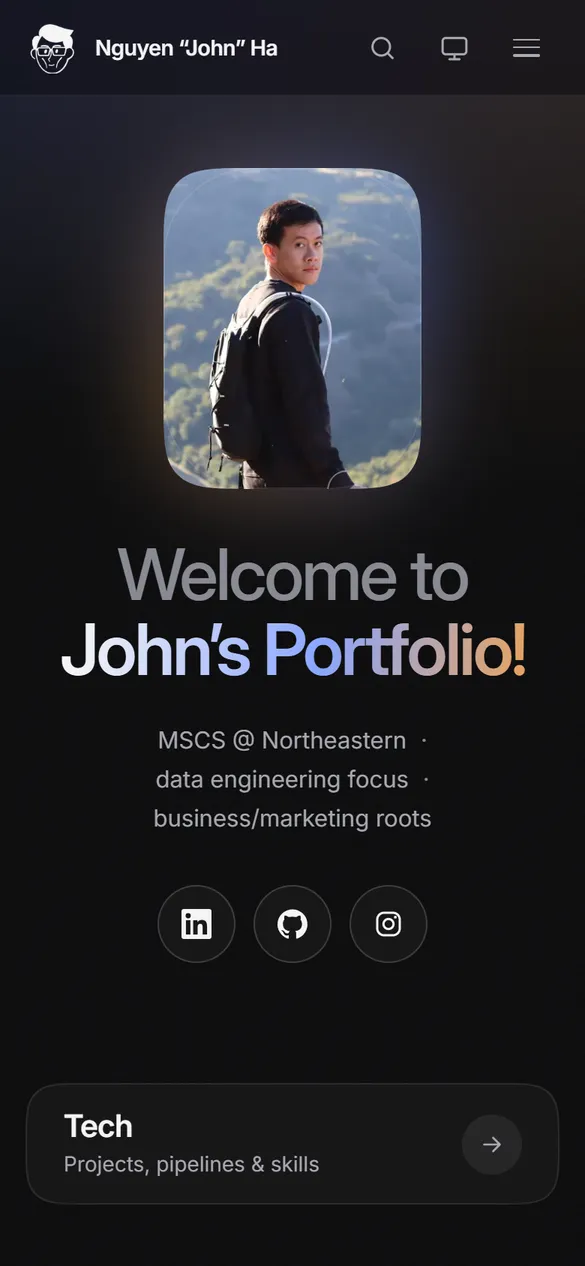
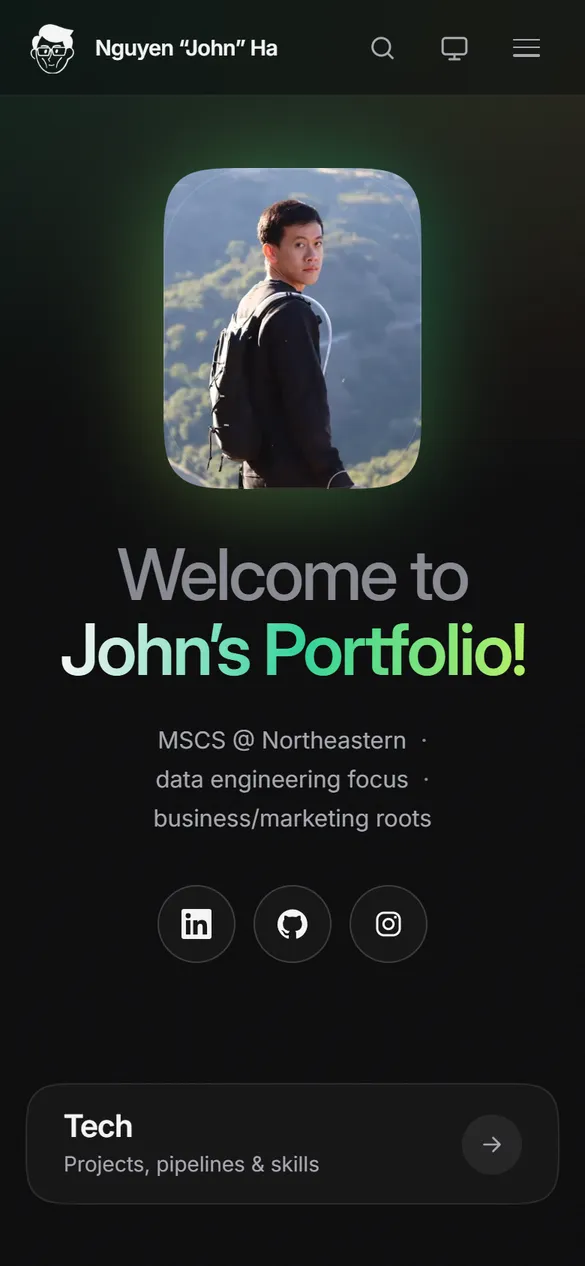
Switch accent from blue to emerald green and unify stack arrows
External links (Music, Photography) now use the same arrow glyph as the
other rows, rotated 45 degrees; hover nudges the arrow instead of rotating
it. Regenerated the Open Graph image and README screenshots.

diff --git a/site/assets/css/site.css b/site/assets/css/site.css
@@ -51,14 +51,15 @@
   --text: #f4f4f5;
   --text-muted: #a8a8b1;
   --text-faint: #8a8a93;
-  --accent: #8aa6ff;
-  --accent-strong: #5b7cff;
+  --accent: #34d399;
+  --accent-strong: #10b981;
+  --accent-2: #bef264;
   --accent-ink: #0a0a0b;
   --crema: #e9a35b;
   --success: #4ade80;
   --glass: rgb(14 14 17 / 0.62);
   --glass-border: rgb(255 255 255 / 0.08);
-  --glow-a: rgb(91 124 255 / 0.20);
+  --glow-a: rgb(16 185 129 / 0.16);
   --glow-b: rgb(233 163 91 / 0.13);
   --ring-photo: rgb(255 255 255 / 0.10);
   --shadow-sm: 0 1px 2px rgb(0 0 0 / 0.4);
@@ -131,14 +132,15 @@
   --text: #111113;
   --text-muted: #4f4f57;
   --text-faint: #66666e;
-  --accent: #2f5bea;
-  --accent-strong: #2149d1;
+  --accent: #047857;
+  --accent-strong: #059669;
+  --accent-2: #4d7c0f;
   --accent-ink: #ffffff;
   --crema: #a3561a;
   --success: #15803d;
   --glass: rgb(246 245 243 / 0.72);
   --glass-border: rgb(0 0 0 / 0.07);
-  --glow-a: rgb(91 124 255 / 0.16);
+  --glow-a: rgb(16 185 129 / 0.13);
   --glow-b: rgb(233 163 91 / 0.16);
   --ring-photo: rgb(0 0 0 / 0.08);
   --shadow-sm: 0 1px 2px rgb(0 0 0 / 0.06);
@@ -633,7 +635,7 @@ main { flex: 1; padding-top: var(--nav-h); }
   inset: -10px;
   z-index: -1;
   border-radius: calc(var(--r-xl) + 10px);
-  background: conic-gradient(from var(--angle, 0deg), var(--accent-strong), var(--crema), var(--accent-strong));
+  background: conic-gradient(from var(--angle, 0deg), var(--accent-strong), var(--accent-2), var(--accent-strong));
   filter: blur(26px);
   opacity: 0.32;
   animation: halo 12s linear infinite;
@@ -654,7 +656,7 @@ main { flex: 1; padding-top: var(--nav-h); }
 .hero__title span { display: block; }
 .hero__title .muted { color: var(--text-faint); font-weight: 500; }
 .gradient-text {
-  background: linear-gradient(100deg, var(--text) 10%, var(--accent) 55%, var(--crema) 95%);
+  background: linear-gradient(100deg, var(--text) 8%, var(--accent) 52%, var(--accent-2) 96%);
   -webkit-background-clip: text;
   background-clip: text;
   color: transparent;
@@ -747,11 +749,13 @@ main { flex: 1; padding-top: var(--nav-h); }
   border-radius: 50%;
   background: var(--surface-2);
   color: var(--text-muted);
-  transition: transform var(--dur) var(--ease-spring), background-color var(--dur), color var(--dur);
+  transition: background-color var(--dur), color var(--dur);
 }
-.stack__arrow svg { width: 18px; height: 18px; }
-.stack__btn:hover .stack__arrow { background: var(--text); color: var(--bg); transform: rotate(-45deg); }
-.stack__btn[target="_blank"]:hover .stack__arrow { transform: none; }
+.stack__arrow svg { width: 18px; height: 18px; transition: transform var(--dur) var(--ease-spring); }
+.stack__arrow.is-ext svg { transform: rotate(-45deg); }
+.stack__btn:hover .stack__arrow { background: var(--accent); color: var(--accent-ink); }
+.stack__btn:hover .stack__arrow svg { transform: translateX(3px); }
+.stack__btn:hover .stack__arrow.is-ext svg { transform: rotate(-45deg) translateX(3px); }
 
 /* ==========================================================================
    ABOUT
@@ -1060,6 +1064,8 @@ main { flex: 1; padding-top: var(--nav-h); }
   transition: transform var(--dur-slow) var(--ease-spring);
 }
 .brew-card:hover .brew-card__art svg { transform: translateY(-6px) rotate(-3deg); }
+.brew-card:hover .stack__arrow { background: var(--accent); color: var(--accent-ink); }
+.brew-card:hover .stack__arrow svg { transform: translateX(3px); }
 .brew-card__body {
   display: grid;
   grid-template-columns: 1fr auto;

diff --git a/site/about/index.html b/site/about/index.html
@@ -102,12 +102,12 @@
     <div data-reveal style="--i:1">
       <h2 class="section-title">Certificate</h2>
       <ul class="link-list">
-        <li><a class="link-card sq" href="https://www.coursera.org/account/accomplishments/professional-cert/FBMBYKNCN4NZ" target="_blank" rel="noopener"><span><span class="link-card__meta">Coursera · IBM</span><br><span class="link-card__title">IBM AI Engineering Professional Certificate</span><span class="visually-hidden"> (opens in a new tab)</span></span><svg viewBox="0 0 24 24" fill="none" stroke="currentColor" stroke-width="1.8" stroke-linecap="round" stroke-linejoin="round" aria-hidden="true"><path d="M7 17 17 7M8 7h9v9"/></svg></a></li>
-        <li><a class="link-card sq" href="https://credentials.edx.org/credentials/36993d02d5b44feaaf65469ed0a9534f/" target="_blank" rel="noopener"><span><span class="link-card__meta">edX · HarvardX</span><br><span class="link-card__title">CS50: Computer Science for Python Programming</span><span class="visually-hidden"> (opens in a new tab)</span></span><svg viewBox="0 0 24 24" fill="none" stroke="currentColor" stroke-width="1.8" stroke-linecap="round" stroke-linejoin="round" aria-hidden="true"><path d="M7 17 17 7M8 7h9v9"/></svg></a></li>
+        <li><a class="link-card sq" href="https://www.coursera.org/account/accomplishments/professional-cert/FBMBYKNCN4NZ" target="_blank" rel="noopener"><span><span class="link-card__meta">Coursera · IBM</span><br><span class="link-card__title">IBM AI Engineering Professional Certificate</span><span class="visually-hidden"> (opens in a new tab)</span></span><svg viewBox="0 0 24 24" fill="none" stroke="currentColor" stroke-width="1.8" stroke-linecap="round" stroke-linejoin="round" aria-hidden="true"><path d="M6.5 17.5 17.5 6.5M8.5 6.5h9v9"/></svg></a></li>
+        <li><a class="link-card sq" href="https://credentials.edx.org/credentials/36993d02d5b44feaaf65469ed0a9534f/" target="_blank" rel="noopener"><span><span class="link-card__meta">edX · HarvardX</span><br><span class="link-card__title">CS50: Computer Science for Python Programming</span><span class="visually-hidden"> (opens in a new tab)</span></span><svg viewBox="0 0 24 24" fill="none" stroke="currentColor" stroke-width="1.8" stroke-linecap="round" stroke-linejoin="round" aria-hidden="true"><path d="M6.5 17.5 17.5 6.5M8.5 6.5h9v9"/></svg></a></li>
       </ul>
       <h3 class="sub-title">Badge</h3>
       <ul class="link-list">
-        <li><a class="link-card sq" href="https://www.credly.com/users/johnha912" target="_blank" rel="noopener"><span><span class="link-card__meta">Credly</span><br><span class="link-card__title">Verified badges on Credly</span><span class="visually-hidden"> (opens in a new tab)</span></span><svg viewBox="0 0 24 24" fill="none" stroke="currentColor" stroke-width="1.8" stroke-linecap="round" stroke-linejoin="round" aria-hidden="true"><path d="M7 17 17 7M8 7h9v9"/></svg></a></li>
+        <li><a class="link-card sq" href="https://www.credly.com/users/johnha912" target="_blank" rel="noopener"><span><span class="link-card__meta">Credly</span><br><span class="link-card__title">Verified badges on Credly</span><span class="visually-hidden"> (opens in a new tab)</span></span><svg viewBox="0 0 24 24" fill="none" stroke="currentColor" stroke-width="1.8" stroke-linecap="round" stroke-linejoin="round" aria-hidden="true"><path d="M6.5 17.5 17.5 6.5M8.5 6.5h9v9"/></svg></a></li>
       </ul>
     </div>
   </div>

diff --git a/site/index.html b/site/index.html
@@ -103,13 +103,13 @@
     <li data-reveal style="--i:2">
       <a class="stack__btn sq" href="https://soundcloud.com/johnhamusic" target="_blank" rel="noopener">
         <span class="stack__label"><span class="stack__title">Music</span><span class="stack__desc">Listen on SoundCloud<span class="visually-hidden"> (opens in a new tab)</span></span></span>
-        <span class="stack__arrow" aria-hidden="true"><svg viewBox="0 0 24 24" fill="none" stroke="currentColor" stroke-width="1.8" stroke-linecap="round" stroke-linejoin="round" aria-hidden="true"><path d="M7 17 17 7M8 7h9v9"/></svg></span>
+        <span class="stack__arrow is-ext" aria-hidden="true"><svg viewBox="0 0 24 24" fill="none" stroke="currentColor" stroke-width="1.8" stroke-linecap="round" stroke-linejoin="round" aria-hidden="true"><path d="M5 12h14M13 6l6 6-6 6"/></svg></span>
       </a>
     </li>
     <li data-reveal style="--i:3">
       <a class="stack__btn sq" href="https://www.instagram.com/johnha.ns/" target="_blank" rel="noopener">
         <span class="stack__label"><span class="stack__title">Photography</span><span class="stack__desc">My shots on Instagram<span class="visually-hidden"> (opens in a new tab)</span></span></span>
-        <span class="stack__arrow" aria-hidden="true"><svg viewBox="0 0 24 24" fill="none" stroke="currentColor" stroke-width="1.8" stroke-linecap="round" stroke-linejoin="round" aria-hidden="true"><path d="M7 17 17 7M8 7h9v9"/></svg></span>
+        <span class="stack__arrow is-ext" aria-hidden="true"><svg viewBox="0 0 24 24" fill="none" stroke="currentColor" stroke-width="1.8" stroke-linecap="round" stroke-linejoin="round" aria-hidden="true"><path d="M5 12h14M13 6l6 6-6 6"/></svg></span>
       </a>
     </li>
     <li data-reveal style="--i:4">

diff --git a/docs/DESIGN.md b/docs/DESIGN.md
@@ -2,7 +2,7 @@
 
 Source of truth for tokens and components. Implementation: `site/assets/css/site.css` (tokens at the top, components below). Every page consumes these tokens; no one-off values in page code.
 
-**Design read:** a developer/data-engineering portfolio for recruiters and hiring managers, often opened on a phone. The language is calm, Tesla-like minimalism: neutral near-black or warm off-white, one electric-blue accent, large tight display type, and photos in soft squircle frames. Coffee pages add a warm "crema" tint as section seasoning.
+**Design read:** a developer/data-engineering portfolio for recruiters and hiring managers, often opened on a phone. The language is calm, Tesla-like minimalism: neutral near-black or warm off-white, one emerald-green accent, large tight display type, and photos in soft squircle frames. Coffee pages add a warm "crema" tint as section seasoning.
 
 ## 1. Themes
 
@@ -21,11 +21,13 @@ Source of truth for tokens and components. Implementation: `site/assets/css/site
 | `--text` | `#f4f4f5` | `#111113` | Primary text |
 | `--text-muted` | `#a8a8b1` | `#4f4f57` | Body copy, descriptions |
 | `--text-faint` | `#8a8a93` | `#66666e` | Labels, metadata (≥ 4.5:1 on `--bg`) |
-| `--accent` | `#8aa6ff` | `#2f5bea` | The single accent: links, current state, focus ring |
+| `--accent` | `#34d399` | `#047857` | The single accent (emerald green): links, current state, focus ring, hover fills |
+| `--accent-strong` | `#10b981` | `#059669` | Portrait halo |
+| `--accent-2` | `#bef264` | `#4d7c0f` | Lime end of the hero gradient text and halo only |
 | `--crema` | `#e9a35b` | `#a3561a` | Coffee art glow and "In progress" status dot only |
 | `--success` | `#4ade80` | `#15803d` | "Open to internships" live dot only |
 
-Ambient background: two very soft radial glows (accent and crema) plus a 3-5% film-grain layer on a fixed, `pointer-events: none` element.
+Ambient background: two very soft radial glows (accent and crema) plus a 3-5% film-grain layer. No blue anywhere (owner decision 2026-10-07) on a fixed, `pointer-events: none` element.
 
 ## 3. Typography
 
@@ -58,7 +60,7 @@ Display tracking `-0.035em`, display line-height `1.04`, body line-height `1.65`
 | Theme menu | Icon button showing the current preference (sun/moon/monitor) → `role="menu"` with three `menuitemradio` items; arrow keys, Esc, outside click. |
 | Search palette | `<dialog>` command palette over a static page index. Opens with the search icon, Ctrl/⌘+K, or "/". Arrow keys + Enter. |
 | Photo frame (`.frame`) | Squircle clip, 1px inner hairline ring, `object-fit: cover`. |
-| Home button stack | Five wide rows (title + one-line description + arrow chip); cursor-following spotlight on hover; external links show a diagonal arrow and announce "opens in a new tab". |
+| Home button stack | Five wide rows (title + one-line description + arrow chip); green cursor-following spotlight on hover, arrow chip fills green and the arrow nudges forward. Every row uses the same arrow glyph; external links (Music, Photography) show it rotated 45° and announce "opens in a new tab". |
 | Project card (Tech) | Bento feature row: status pill, title, description, mono tech chips, and a pipeline diagram drawn from the brief's real architecture (not a fake screenshot). |
 | Brew card (Coffee) | Original line-art illustration on a warm crema glow, title, one-line description. |
 | Article (Coffee) | Breadcrumb, H1, hero art, prose, "My Usual Profile" stat tiles, numbered step timeline, tip box, references, prev/next pager. |

diff --git a/docs/STATUS.md b/docs/STATUS.md
@@ -22,6 +22,7 @@ _Last updated: 2026-10-07_
 - **2026-10-07:** Font: a popular, Tesla-like sans that renders identically on phone and PC → **Inter** variable, self-hosted (plus JetBrains Mono for small labels).
 - **2026-10-07:** Photos in modern rounded frames → squircle corners (`corner-shape: squircle`) with rounded fallback.
 - **2026-10-07:** Theme menu with **Light / Dark / System**; default System.
+- **2026-10-07:** Accent color changed from blue to emerald green (hero gradient text, hover effects, links); no blue anywhere.
 - **2026-10-07:** Credly profile URL is credly.com/users/johnha912.
 - **2026-10-07:** Contact: no form, just one button that opens email to johnha0912@gmail.com (plus a copy button and social links).
 - **2026-10-07:** Add the taste-skill and UI UX Pro Max skills to the agent team (installed and logged in `docs/TOOLS.md`). Install Anthropic's `frontend-design` plugin (owner runs the command; see Toolchain).
